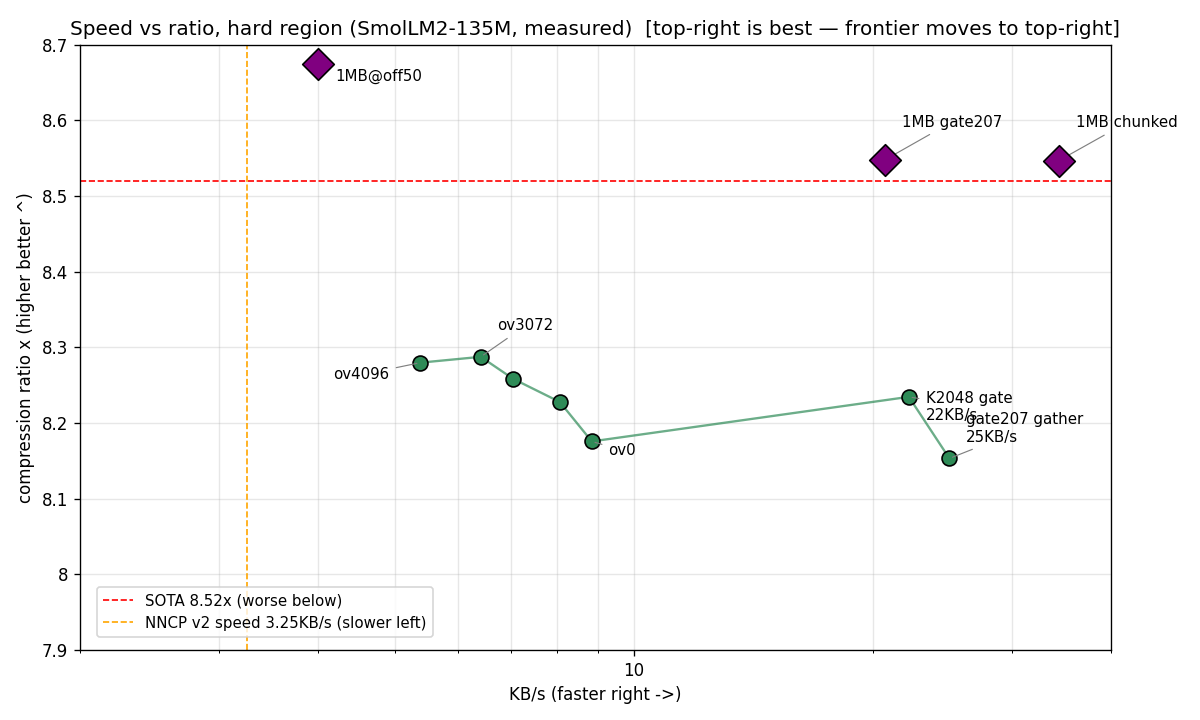
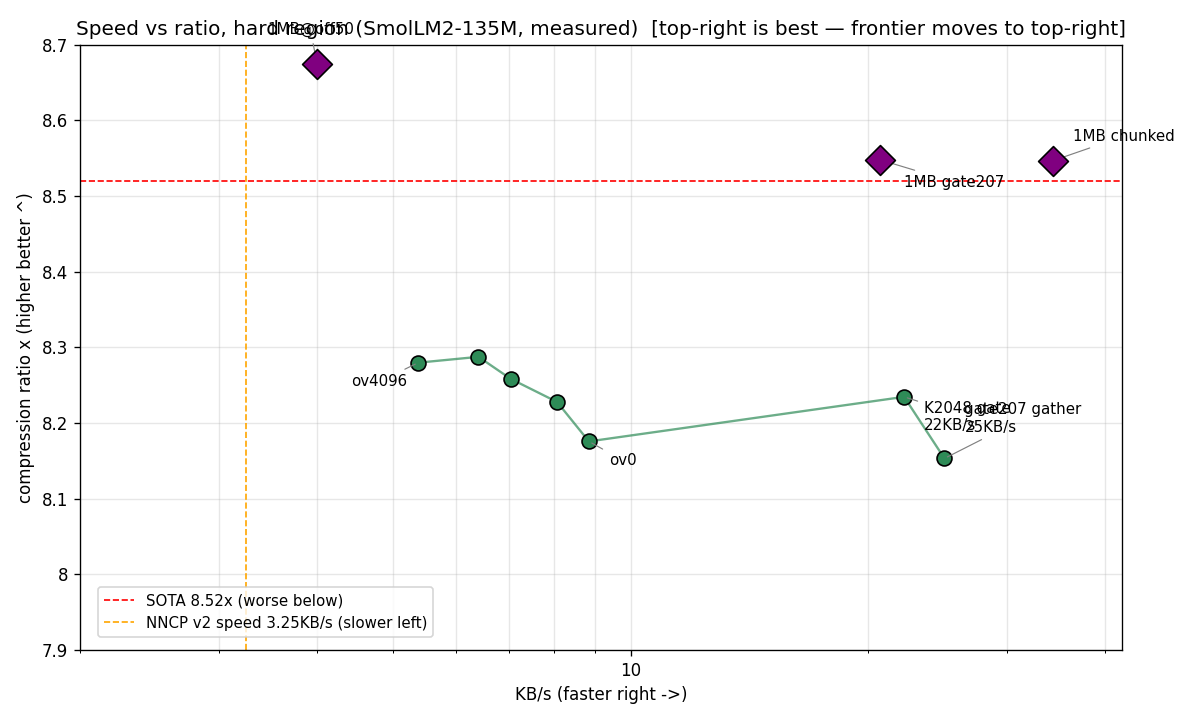
De-overlap labels: spread Pareto/balance annotations, reduce crowding

diff --git a/tools/pareto_plot.py b/tools/pareto_plot.py
@@ -107,30 +107,33 @@ def _dots(ax, pts, color, show, offsets):
             _anno(ax, lab, x, y, *offsets.get(lab, (8, 8)))
 
 
-def _diamonds(ax):
+def _diamonds(ax, xoff=10):
     for lab, x, _bpb in MB1:
         y = 8.0 / _bpb
-        ax.scatter([x], [y], s=180, marker="D", color="purple",
+        ax.scatter([x], [y], s=160, marker="D", color="purple",
                    edgecolors="black", zorder=4)
-        _anno(ax, lab, x, y, 10, -10 if "off50" in lab else 20)
+        # spread 1MB labels: off50 cluster crowded, push up; chunked/gate207 push out
+        if "chunked" in lab: dx, dy = 12, 12
+        elif "gate207" in lab: dx, dy = 14, -16
+        elif "off50" in lab: dx, dy = -30, 18
+        elif "off25" in lab: dx, dy = 8, -22
+        else: dx, dy = xoff, 14
+        _anno(ax, lab, x, y, dx, dy)
 
 
 # ---- plot 1: off50 frontier ----
 fig, ax = _base("Speed vs ratio, article region (SmolLM2-135M, measured)",
                 8.3, 9.1)
-_dots(ax, OFF50, "steelblue", show=("K8k\ncrown", "K16k", "knee gather",
-                                    "ov4096\nK1k", "K3072 gather",
+# reduced labels to avoid crowding; keep frontier extremes + balanced
+_dots(ax, OFF50, "steelblue", show=("K8k\ncrown", "K3072 gather",
                                     "chunk\n34.5KB/s", "chunkK2\n27KB/s",
                                     "chunkK4\n16.9KB/s",
-                                    "gate\n22.7KB/s",
                                     "crown gate207"),
-      offsets={"K8k\ncrown": (-64, 14), "K16k": (8, 12),
-               "knee gather": (8, 18), "ov4096\nK1k": (-64, -12),
-               "K3072 gather": (8, 12), "chunk\n34.5KB/s": (8, 12),
-               "chunkK2\n27KB/s": (8, -16), "chunkK4\n16.9KB/s": (8, 14),
-               "gate\n22.7KB/s": (10, -14), "crown gate207": (-72, -14)})
-_diamonds(ax)
-ax.set_xlim(2, 50)
+      offsets={"K8k\ncrown": (-78, 16), "K3072 gather": (10, 14),
+               "chunk\n34.5KB/s": (10, 12), "chunkK2\n27KB/s": (10, 10),
+               "chunkK4\n16.9KB/s": (10, -18), "crown gate207": (-82, -16)})
+_diamonds(ax, xoff=12)
+ax.set_xlim(2, 55)
 fig.tight_layout()
 fig.savefig("pareto_off50.png", dpi=120)
 print("saved pareto_off50.png")
@@ -138,14 +141,15 @@ print("saved pareto_off50.png")
 # ---- plot 2: off75 hard region ----
 fig, ax = _base("Speed vs ratio, hard region (SmolLM2-135M, measured)",
                 7.9, 8.7)
-_dots(ax, OFF75, "seagreen", show=("ov4096", "ov3072", "ov0",
+# spread the two close gate labels vertically
+_dots(ax, OFF75, "seagreen", show=("ov4096", "ov0",
                                     "gate207 gather\n25KB/s",
                                     "K2048 gate\n22KB/s"),
-      offsets={"ov4096": (-52, -10), "ov3072": (10, 16), "ov0": (10, -8),
-               "gate207 gather\n25KB/s": (10, 10),
-               "K2048 gate\n22KB/s": (10, -14)})
-_diamonds(ax)
-ax.set_xlim(2, 40)
+      offsets={"ov4096": (-40, -14), "ov0": (12, -14),
+               "gate207 gather\n25KB/s": (12, 16),
+               "K2048 gate\n22KB/s": (12, -20)})
+_diamonds(ax, xoff=12)
+ax.set_xlim(2, 42)
 fig.tight_layout()
 fig.savefig("pareto_off75.png", dpi=120)
 print("saved pareto_off75.png")

diff --git a/tools/combined_plot.py b/tools/combined_plot.py
@@ -102,11 +102,11 @@ def pareto_panel(ax, pts, title, ymin, ymax, color, show, offsets, xlim):
     ax.grid(True, which="both", alpha=0.3); ax.legend(fontsize=7, loc="lower left"); plain(ax)
 
 ax1 = fig.add_subplot(gs[0,0]); pareto_panel(ax1, OFF50, "Pareto: article region (off50)", 8.3, 9.1, "steelblue",
-    show=("K8k\ncrown","K16k","knee gather","ov4096\nK1k","K3072 gather","chunk\n34.5KB/s","chunkK2\n27KB/s","chunkK4\n16.9KB/s","gate\n22.7KB/s","crown gate207"),
-    offsets={"K8k\ncrown":(-64,14),"K16k":(8,12),"knee gather":(8,18),"ov4096\nK1k":(-64,-12),"K3072 gather":(8,12),"chunk\n34.5KB/s":(8,12),"chunkK2\n27KB/s":(8,-16),"chunkK4\n16.9KB/s":(8,14),"gate\n22.7KB/s":(10,-14),"crown gate207":(-72,-14)}, xlim=50)
+    show=("K8k\ncrown","K3072 gather","chunk\n34.5KB/s","chunkK2\n27KB/s","chunkK4\n16.9KB/s","crown gate207"),
+    offsets={"K8k\ncrown":(-78,16),"K3072 gather":(10,14),"chunk\n34.5KB/s":(10,12),"chunkK2\n27KB/s":(10,10),"chunkK4\n16.9KB/s":(10,-18),"crown gate207":(-82,-16)}, xlim=55)
 ax2 = fig.add_subplot(gs[0,1]); pareto_panel(ax2, OFF75, "Pareto: hard region (off75)", 7.9, 8.7, "seagreen",
-    show=("ov4096","ov3072","ov0","gate207 gather\n25KB/s","K2048 gate\n22KB/s"),
-    offsets={"ov4096":(-52,-10),"ov3072":(10,16),"ov0":(10,-8),"gate207 gather\n25KB/s":(10,10),"K2048 gate\n22KB/s":(10,-14)}, xlim=40)
+    show=("ov4096","ov0","gate207 gather\n25KB/s","K2048 gate\n22KB/s"),
+    offsets={"ov4096":(-40,-14),"ov0":(12,-14),"gate207 gather\n25KB/s":(12,16),"K2048 gate\n22KB/s":(12,-20)}, xlim=42)
 
 # scale
 def kbs(sz,sec): return [s/t for s,t in zip(sz,sec)]
@@ -139,9 +139,10 @@ ax5 = fig.add_subplot(gs[2,:])
 xs=[p[1] for p in PTS]; ys=[8/p[2] for p in PTS]
 sizes=[50+60*(score(p[1],p[2])/score(best[1],best[2])) for p in PTS]
 ax5.scatter(xs, ys, c=['red' if p==best else 'steelblue' for p in PTS], s=sizes, edgecolors='black', zorder=3, alpha=0.85)
+offs={"chunk\n34.5KB/s": (8,10), "chunkK2\n27KB/s": (8,-14), "chunkK4\n16.9KB/s": (-40,12), "K8k\ncrown": (-50,12), "Qwen K4k*": (8,10)}
 for x,y,l in zip(xs,ys,[p[0] for p in PTS]):
-    if l in (best[0], "K8k\ncrown", "Qwen K4k*", "chunkK2\n27KB/s", "chunkK4\n16.9KB/s"):
-        ax5.annotate(l,(x,y), textcoords="offset points", xytext=(6,6), fontsize=7, arrowprops=dict(arrowstyle="-", color="gray", lw=0.6))
+    if l in offs:
+        ax5.annotate(l,(x,y), textcoords="offset points", xytext=offs[l], fontsize=7, arrowprops=dict(arrowstyle="-", color="gray", lw=0.6))
 ax5.set_xscale("log"); ax5.set_xlabel("KB/s (faster right, log)"); ax5.set_ylabel("compression ratio x = 8/bpb (higher better ^)")
 ax5.set_title(f"Balance: ratio vs speed (SOTA 8.52x) — best = {best[0]}  score={score(best[1],best[2]):.1f}  size=score", fontsize=9)
 ax5.axhline(SOTA_RATIO, color="red", linestyle="--", lw=1, label="SOTA 8.52x")

diff --git a/tools/balance_plot.py b/tools/balance_plot.py
@@ -51,9 +51,10 @@ labels=[p[0] for p in PTS]
 # size by score, color best red
 sizes=[60+80*(score(p[1],p[2])/score(best[1],best[2])) for p in PTS]
 ax.scatter(xs, ys, c=['red' if p==best else 'steelblue' for p in PTS], s=sizes, edgecolors='black', zorder=3, alpha=0.85)
+offs={"chunk 34.5*": (8,10), "chunkK2 27": (8,-14), "chunkK4 16.9": (-40,12), "K8k crown": (-50,12), "Qwen K4k*": (8,10)}
 for x,y,l in zip(xs,ys,labels):
-    if l in (best[0], "K8k crown", "Qwen K4k*", "chunkK2 27", "chunkK4 16.9"):
-        ax.annotate(l, (x,y), textcoords="offset points", xytext=(6,6), fontsize=8,
+    if l in offs:
+        ax.annotate(l, (x,y), textcoords="offset points", xytext=offs[l], fontsize=7,
                     arrowprops=dict(arrowstyle="-", color="gray", lw=0.6))
 ax.set_xscale("log")
 ax.set_xlabel("KB/s (faster right, log)")
